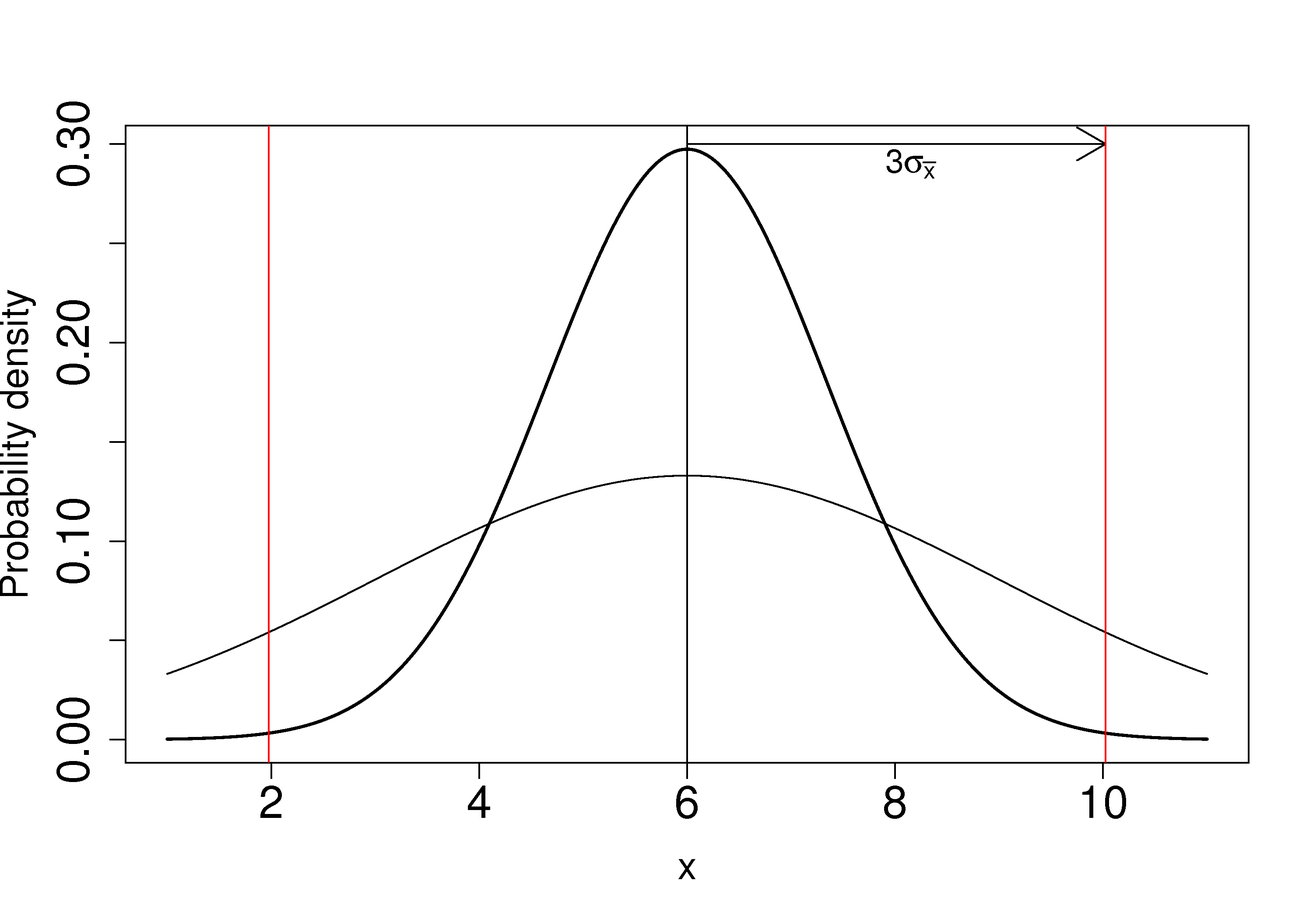
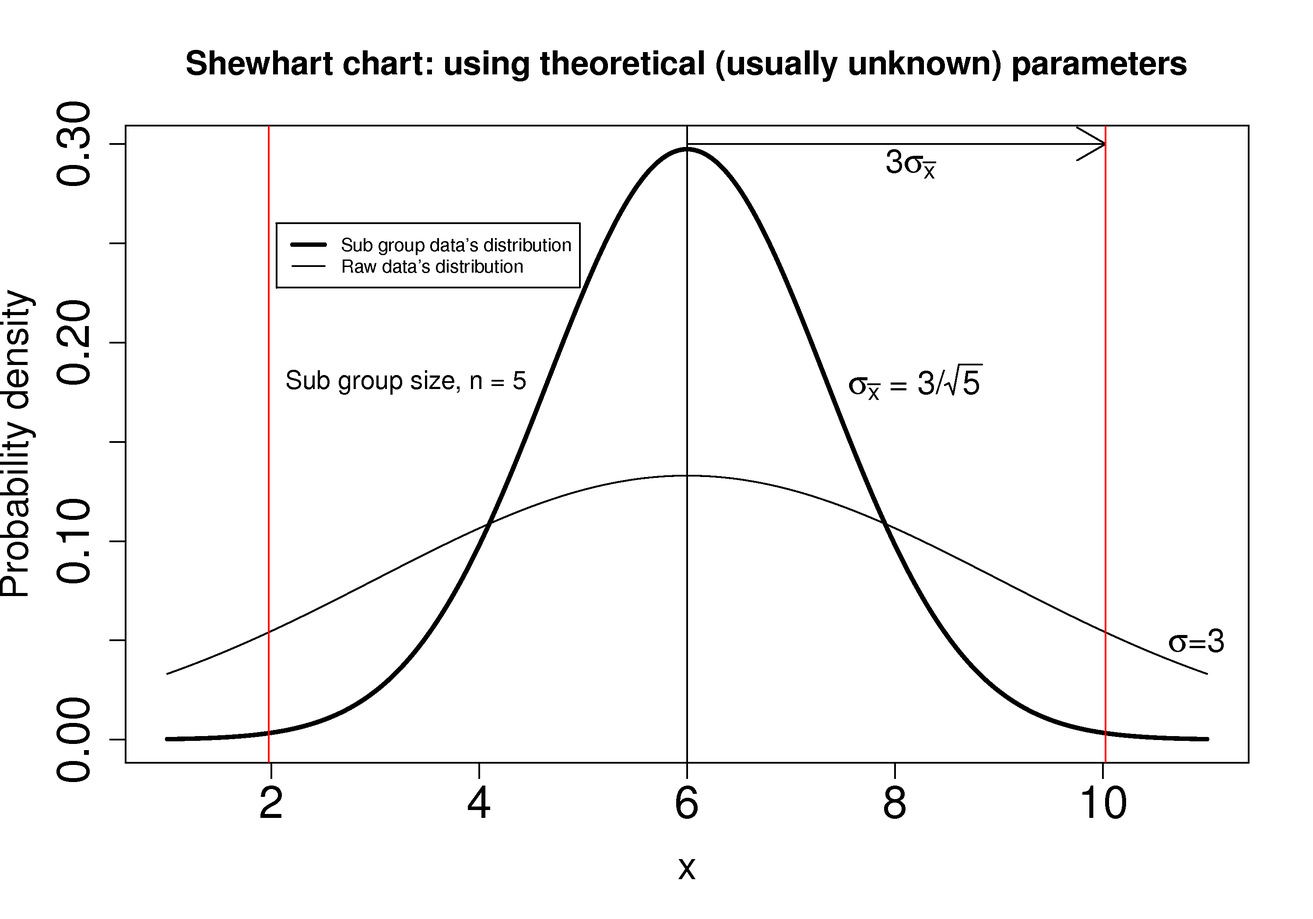
Fixed up some math: moved \bar to \overline; moved \tfrac and \dfrac to just \frac

diff --git a/conf.py b/conf.py
@@ -172,7 +172,7 @@ rst_epilog = """
 .. |K| replace:: :math:`K`
 .. |M| replace:: :math:`M`
 .. |Cpk| replace:: C\ :sub:`pk`
-.. |xdb| replace:: :math:`\Bar{\Bar{x}}`
+.. |xdb| replace:: :math:`\overline{\overline{x}}`
 """
 
 # -- Options for HTML output ---------------------------------------------------

diff --git a/process-monitoring/process-monitoring.rst b/process-monitoring/process-monitoring.rst
@@ -174,48 +174,64 @@ A :index:`Shewhart chart <pair: Shewhart chart; Process monitoring>`, named afte
 
 The defining characteristics are: a target, upper and lower control limits (UCL and LCL).  These action limits are defined so that no action is required as long as the variable plotted remains within the limits.
 
-Derivation
-~~~~~~~~~~~~~
+Derivation using theoretical parameters
+~~~~~~~~~~~~~~~~~~~~~~~~~~~~~~~~~~~~~~~~~
 
-Define the variable of interest as :math:`x`, and assume that we have samples of :math:`x` available in sequence order.  No assumption is made regarding the distribution of :math:`x`.  The average of :math:`n` of these :math:`x`-values is defined as :math:`\bar{x}`, which from the Central limit theorem we know will be more normally distributed with unknown population mean :math:`\mu` and unknown population variance :math:`\sigma^2/n`, where :math:`\mu` and :math:`\sigma` refer to the distribution that samples of :math:`x` came from. The figure below shows the case for :math:`n=5`.
+Define the variable of interest as :math:`x`, and assume that we have samples of :math:`x` available in sequence order.  No assumption is made regarding the distribution of :math:`x`.  The average of :math:`n` of these :math:`x`-values is defined as :math:`\overline{x}`, which from the Central limit theorem we know will be more normally distributed with unknown population mean :math:`\mu` and unknown population variance :math:`\sigma^2/n`, where :math:`\mu` and :math:`\sigma` refer to the distribution that samples of :math:`x` came from. The figure below shows the case for :math:`n=5`.
 
 .. image:: images/explain-Shewhart-data-source.png
 	:width: 750px
 	:align: center
 	:scale: 70
 
-So by taking subgroups of size :math:`n` values, we now have a new variable, :math:`\bar{x}` and we will define a shorthand symbol for its standard deviation: :math:`\sigma_{\bar{X}} = \sigma/\sqrt{n}`.  Writing a |z|-value for :math:`\bar{x}`, and its associated confidence interval for :math:`\mu` is now easy after studying :ref:`the previous section <univariate-confidence-intervals>` of the book:
+So by taking subgroups of size :math:`n` values, we now have a new variable, :math:`\overline{x}` and we will define a shorthand symbol for its standard deviation: :math:`\sigma_{\overline{X}} = \sigma/\sqrt{n}`.  Writing a :math:`z`-value for :math:`\overline{x}`, and its associated confidence interval for :math:`\mu` is now easy after studying :ref:`the section on confidence intervals<univariate-confidence-intervals>`:
 
 .. math::
-	z = \dfrac{\bar{x} - \mu}{\sigma_{\bar{X}}}
 
-Assuming we know :math:`\sigma_{\bar{X}}`, which we usually do not in practice, we can invoke the normal distribution and calculate the probability of finding a value of |z| between :math:`c_n = -3` to :math:`c_n = +3`:
+	z = \frac{\displaystyle \overline{x} - \mu}{\displaystyle \sigma_{\overline{X}}}
+
+Assuming we know :math:`\sigma_{\overline{X}}`, which we usually do not in practice, we can invoke the normal distribution and calculate the probability of finding a value of :math:`z` between :math:`c_n = -3` to :math:`c_n = +3`:
 
 .. math::
 	:label: shewhart-theoretical
 	
 	\begin{array}{rcccl} 
-		  - c_n                                              &\leq& \dfrac{\bar{x} - \mu}{\sigma_{\bar{X}}} &  +c_n\\ \\
-		\bar{x}  - c_n\sigma_{\bar{X}}                       &\leq&  \mu                                                 &\leq& \bar{x}  + c_n\sigma_{\bar{X}} \\ \\
+		  - c_n                                              &\leq& \dfrac{\overline{x} - \mu}{\sigma_{\overline{X}}} &  +c_n\\ \\
+		\overline{x}  - c_n\sigma_{\overline{X}}                       &\leq&  \mu                                                 &\leq& \overline{x}  + c_n\sigma_{\overline{X}} \\ \\
 		\text{LCL}                                           &\leq&  \mu                                                 &\leq& \text{UCL}
 	\end{array}
 
-The total area between that lower and upper bound spans 99.73% of the area (in R: ``pnorm(+3) - pnorm(-3)`` gives 0.9973).  So it is highly unlikely, a chance of 1 in 370 that a data point, :math:`\bar{x}`, calculated from a subgroup of :math:`n` raw :math:`x`-values, will lie outside these bounds.
+The reason for :math:`c_n = \pm 3` is that the total area between that lower and upper bound spans 99.73% of the area (in R: ``pnorm(+3) - pnorm(-3)`` gives 0.9973).  So it is highly unlikely, a chance of 1 in 370 that a data point, :math:`\overline{x}`, calculated from a subgroup of :math:`n` raw :math:`x`-values, will lie outside these bounds.
 
-.. Explain-shewhart.png
+The following illustration should help connect the concept of the raw data's distribution, to the distribution of the subgroups:
+
+.. figure:: images/explain-shewhart.png
+	:alt:	images/explain-shewhart.R
+	:scale: 70
+	:width: 750px
+	:align: center
 
 Using estimated parameters instead
 ~~~~~~~~~~~~~~~~~~~~~~~~~~~~~~~~~~~~~~~~
 
-The derivation in equation :eq:`shewhart-theoretical` requires knowing the population variance, :math:`\sigma`, and assuming that our target for :math:`x` is :math:`\mu`.  
+The derivation in equation :eq:`shewhart-theoretical` requires knowing the population variance, :math:`\sigma`, and assuming that our target for :math:`x` is :math:`\mu`.  The latter assumption is reasonable, but we will estimate a value for :math:`\sigma` instead, using the data.
 
-The latter assumption is reasonable, so create a new variable |xdb| :math:`= \dfrac{1}{K} \displaystyle \sum_{k=1}^{K}{ \bar{x}_k}`, where :math:`K` is the number of :math:`\bar{x}` samples we have available to build the control chart (phase 1 data).  Alternatively, just set |xdb| to the desired target value for :math:`x`.  Note that |xdb| is sometimes called the  *grand mean* in control chart textbooks.
+.. index:: ! Phase 1 (control charts)
 
-The next hurdle is :math:`\sigma`.  We do not show it here, but for a subgroup of :math:`n` samples, an unbiased estimator of :math:`\sigma` is given by :math:`\dfrac{\bar{S}}{a_n}`.  Now :math:`\bar{S} =  \dfrac{1}{K} \displaystyle \sum_{k=1}^{K}{s_k}` (simply the average standard deviation calculated from :math:`K` subgroups).  Values for :math:`a_n` are looked up from a table and depend on the number of samples we use within each subgroup.
+Let's take a look at phase, the step where we are building the control chart's limits from historical data.  Create a new variable |xdb| :math:`= \dfrac{1}{K} \displaystyle \sum_{k=1}^{K}{ \overline{x}_k}`, where :math:`K` is the number of :math:`\overline{x}` samples we have available to build the control chart, called the :index:`phase 1` data.  Alternatively, just set |xdb| to the desired target value for :math:`x`.  Note that |xdb| is sometimes called the  *grand mean* in control chart textbooks.
 
-.. figure:: images/table-for-an-values.png
-	:width: 500px
-	:scale: 80
+The next hurdle is :math:`\sigma`.  We do not show it here, but for a subgroup of :math:`n` samples, an unbiased estimator of :math:`\sigma` is given by :math:`\frac{\overline{S}}{a_n}`.  Now :math:`\overline{S} =  \frac{1}{K} \displaystyle \sum_{k=1}^{K}{s_k}` (simply the average standard deviation calculated from :math:`K` subgroups).  Values for :math:`a_n` are found from a table and depend on the number of samples we use within each subgroup.
+
+===========  ====== ====== ====== ====== ====== ====== ====== =============== 
+:math:`n`    2      3      4      5      6      7      8      :math:`\infty`
+-----------  ------ ------ ------ ------ ------ ------ ------ --------------- 
+:math:`a_n`  0.793  0.886  0.921  0.940  0.952  0.959  0.965  1.0
+===========  ====== ====== ====== ====== ====== ====== ====== =============== 
+
+..
+	.. figure:: images/table-for-an-values.png
+		:width: 500px
+		:scale: 80
 	
 .. table code
 	{| class="wikitable center"
@@ -245,74 +261,75 @@ Now that we have an unbiased estimator for the standard deviation from these :ma
 	:label: shewhart-limits
 	
 	\begin{array}{rcccl} 
-		 \text{LCL} = \Bar{\Bar{x}} - 3 \cdot \dfrac{\bar{S}}{a_n\sqrt{n}} &&  &&  \text{UCL} = \Bar{\Bar{x}} + 3 \cdot \dfrac{\bar{S}}{a_n\sqrt{n}} 
+		 \text{LCL} = \overline{\overline{x}} - 3 \cdot \frac{\overline{S}}{a_n\sqrt{n}} &&  &&  \text{UCL} = \overline{\overline{x}} + 3 \cdot \frac{\overline{S}}{a_n\sqrt{n}} 
 	\end{array}
 
-Example
-~~~~~~~~~~~~~~~~~~~~~~~~~~
+.. rubric:: Example
 
-Bales of rubber are being produced, with every 10th bale automatically removed from the line.  Five measurements of colour are made on the bale, using calibrated digital cameras under standard lighting conditions. The rubber compound is used for medical devices, so it needs to have the correct whiteness (colour).  The average of the 5 colour measurements is to be plotted on a Shewhart chart.  So we have a new data point appearing on the monitoring chart after every 10th bale.  
+Bales of rubber are being produced, with every 10th bale automatically removed from the line for testing.  Five measurements of colour are made on that bale, using calibrated digital cameras under standard lighting conditions. The rubber compound is used for medical devices, so it needs to have the correct whiteness (colour).  The average of the 5 colour measurements is to be plotted on a Shewhart chart.  So we have a new data point appearing on the monitoring chart after every 10th bale.  
 
-In the above example the raw data are the bale's colour.  There are :math:`n = 5` values in each subgroup.  Collect say :math:`K=20` samples of normal operating data, these are bales that are considered to be from stable operation. No special process events occurred while collecting the data.
+In the above example the raw data are the bale's colour.  There are :math:`n = 5` values in each subgroup.  Collect say :math:`K=20` samples of normal operating data, these are bales that are considered to be from stable operation. No special process events occurred while collecting these data.
 
 The data below represent the average of the :math:`n=5` samples from each bale, there are :math:`K=20` subgroups.
 
 .. math::
- 	\bar{x} = [245, 239, 239, 241, 241, 241, 238, 238, 236, 248, 233, 236, 246, 253, 227, 231, 237, 228, 239, 240]
+ 	\overline{x} = [245, 239, 239, 241, 241, 241, 238, 238, 236, 248, 233, 236, 246, 253, 227, 231, 237, 228, 239, 240]
 
-The overall average is :math:`\Bar{\Bar{x}} = 238.8` and :math:`\bar{S} = 9.28`.  Calculate the lower and upper control limits for this Shewhart chart.  Were there any points in the phase I data (training phase) that exceeded these limits?
+The overall average is :math:`\overline{\overline{x}} = 238.8` and :math:`\overline{S} = 9.28`.  Calculate the lower and upper control limits for this Shewhart chart.  Were there any points in the phase I data (training phase) that exceeded these limits?
 
-	- LCL = :math:`238.8 - 3 \cdot \dfrac{9.28}{(0.94)(\sqrt{5})} = 225.6`
-	- UCL = :math:`238.8 + 3 \cdot \dfrac{9.28}{(0.94)(\sqrt{5})} = 252.0`
-	- The sample with value of 253 exceeds these limits.  If this point is excluded and the limits recomputed, the new LCL = 224 and UCL = 252 (the new :math:`\Bar{\Bar{x}} = 238.0` and :math:`\bar{S} = 9.68`)
+	-	LCL = :math:`238.8 - 3 \cdot \frac{9.28}{(0.94)(\sqrt{5})} = 225.6`
+	-	UCL = :math:`238.8 + 3 \cdot \frac{9.28}{(0.94)(\sqrt{5})} = 252.0`
+	-	The sample with value of 253 exceeds these limits.  
+	-	This point should be excluded and the limits recomputed: the new :math:`\overline{\overline{x}} = 238.0` and :math:`\overline{S} = 9.68` and the new LCL = 224 and UCL = 252
 	
 .. todo: show chart in class
-	
-	
-.. todo:  use explain-shewhart.R still
-
+		
 .. todo: in the future, describe more clearly the difference between phase I and phase II.  Students were asking a lot of questions around this.
 
 Assessing the chart's performance
 ~~~~~~~~~~~~~~~~~~~~~~~~~~~~~~~~~~~~~~~~~~~~~~~~~~~~
 
-There are 2 ways to assess performance:
+There are 2 ways to :index:`assess performance of any control chart <single: control chart assessment>`, in particular here we discuss the Shewhart chart:
 
-#.	Error probability.  We define two types of errors, Type I and Type II, which are a function of the lower and upper control limits (LCL and UCL).
+.. rubric:: 1. Error probability.  
 
-	You make a **type I error** when your sample is typical of normal operation, yet, it falls outside the UCL or LCL limits.  We showed in the theoretical derivation that the area covered by the upper and lower control limits is 99.73%.  The probability of making a type I error, usually denoted as :math:`\alpha` is then 100 - 99.73 = 0.27%.
-	
-	*Synonyms* for a **type I error**: false alarm, false positive (used mainly for testing of diseases), producer's risk (used for acceptance sampling)
-	
-	You make a **type II error** when your sample really is abnormal, but falls within the the UCL and LCL limits.  This error rate is denoted by :math:`\beta`, and it is a function of the degree of abnormality, which we derive next.
-	
-	*Synonyms* for a **type II error**: false negative (used mainly for testing of diseases), consumer's risk (used for acceptance sampling)
-	
-	To quantify the probability of :math:`\beta`, make an assumption that the new, abnormal sample comes from a distribution which has shifted its location from :math:`\mu` to :math:`\mu + \Delta\sigma` (e.g. :math:`\Delta` can be positive or negative).  Now, what is the probability this new sample, which come from the shifted distribution, will fall within the existing LCL and UCL? This figure show the probability is :math:`\beta = 1 - \text{the shaded area}`.
+We define two types of errors, Type I and Type II, which are a function of the lower and upper control limits (LCL and UCL).
 
-	.. figure:: images/show-shift-beta-error.png
-		:width: 500px
-		:align: center
-		:scale: 90
-	
-	.. todo  How did Devore calculate these numbers: see p 667 of his book - it doesn't make sense to me.  See my attempt in "show-shift-typeII-error.R"
-	
-	.. figure:: images/type-II-error-shift.png
-		:width: 500px
-		:align: center
-		:scale: 90
+You make a **type I error** when your sample is typical of normal operation, yet, it falls outside the UCL or LCL limits.  We showed in the theoretical derivation that the area covered by the upper and lower control limits is 99.73%.  The probability of making a type I error, usually denoted as :math:`\alpha` is then 100 - 99.73 = 0.27%.
 
-	The table here shows that :math:`\beta` is a function of the amount by which the process shifts = :math:`\Delta`, where :math:`\Delta=1` implies the process has shifted up by :math:`1\sigma`.  The table was calculated for :math:`n=4` and used critical limits of :math:`\pm 3 \sigma_{\bar{X}}`.
+*Synonyms* for a **type I error**: false alarm, false positive (used mainly for testing of diseases), producer's risk (used for acceptance sampling)
 
-	The key point you should note from the table is that a Shewhart chart is not good at detecting a change in the level of a variable.  Even a moderate shift of :math:`0.75\sigma` units :math:`(\Delta=0.75)` will only be detected around 6.7% of the time (100-93.3%) when :math:`n=4`.  We will discuss CUSUM charts as a way to overcome this issue next.
-	
-	It is straightforward to see how the type I (:math:`\alpha`) error rate can be adjusted - simply move the LCL and UCL up and down, as required.  
-	
-	However what happens to the type II error rate as the LCL and UCL bounds are shifted?  Imagine the case where you want to have :math:`\alpha \rightarrow 0`.  As you make the UCL higher and higher, the value for :math:`\alpha` drops, but the value for :math:`\beta` will also increase!  **You cannot simultaneously have low type I and type II error**.
+You make a **type II error** when your sample really is abnormal, but falls within the the UCL and LCL limits.  This error rate is denoted by :math:`\beta`, and it is a function of the degree of abnormality, which we derive next.
 
-#. 	The **average run length (ARL)** is defined as the average number of sequential samples we expect before seeing an out-of-bounds, or out-of-control signal.  This is given by the inverse of :math:`\alpha`, as ARL = :math:`\frac{1}{\alpha}`.  Recall for the theoretical distribution we had :math:`\alpha = 0.0027`, so the ARL = 370.  Thus we expect a run of 370 samples before we get an out-of-control signal.
+*Synonyms* for a **type II error**: false negative (used mainly for testing of diseases), consumer's risk (used for acceptance sampling)
 
-	The run length is changed when the process level shifts.  What is the ARL if the process has shifted up by :math:`0.75\sigma`?
+To quantify the probability :math:`\beta`, make an assumption that the new, abnormal sample comes from a distribution which has shifted its location from :math:`\mu` to :math:`\mu + \Delta\sigma` (e.g. :math:`\Delta` can be positive or negative).  Now, what is the probability this new sample, which come from the shifted distribution, will fall within the existing LCL and UCL? This figure show the probability is :math:`\beta = 1 - \text{the shaded area}`.
+
+.. figure:: images/show-shift-beta-error.png
+	:width: 500px
+	:align: center
+	:scale: 90
+
+.. todo  How did Devore calculate these numbers: see p 667 of his book - it doesn't make sense to me.  See my attempt in "show-shift-typeII-error.R"
+
+.. figure:: images/type-II-error-shift.png
+	:width: 500px
+	:align: center
+	:scale: 90
+
+The table here shows that :math:`\beta` is a function of the amount by which the process shifts = :math:`\Delta`, where :math:`\Delta=1` implies the process has shifted up by :math:`1\sigma`.  The table was calculated for :math:`n=4` and used critical limits of :math:`\pm 3 \sigma_{\overline{X}}`.
+
+The key point you should note from the table is that a Shewhart chart is not good at detecting a change in the level of a variable.  Even a moderate shift of :math:`0.75\sigma` units :math:`(\Delta=0.75)` will only be detected around 6.7% of the time (100-93.3%) when :math:`n=4`.  We will discuss CUSUM charts as a way to overcome this issue next.
+
+It is straightforward to see how the type I (:math:`\alpha`) error rate can be adjusted - simply move the LCL and UCL up and down, as required.  
+
+However what happens to the type II error rate as the LCL and UCL bounds are shifted?  Imagine the case where you want to have :math:`\alpha \rightarrow 0`.  As you make the UCL higher and higher, the value for :math:`\alpha` drops, but the value for :math:`\beta` will also increase!  **You cannot simultaneously have low type I and type II error**.
+
+.. rubric:: 2. Using the average run length (ARL)
+
+The ARL is defined as the average number of sequential samples we expect before seeing an out-of-bounds, or out-of-control signal.  This is given by the inverse of :math:`\alpha`, as ARL = :math:`\frac{1}{\alpha}`.  Recall for the theoretical distribution we had :math:`\alpha = 0.0027`, so the ARL = 370.  Thus we expect a run of 370 samples before we get an out-of-control signal.
+
+The run length is changed when the process level shifts.  What is the ARL if the process has shifted up by :math:`0.75\sigma`?
 	
 	*Answer*
 	
@@ -411,7 +428,7 @@ The MA chart plots values of :math:`x_t`, calculated from groups of size :math:`
 
 .. math::	
 	
-	\bar{x}_t = \dfrac{1}{n}x_{t-1} + \dfrac{1}{n}x_{t-2} + \ldots + \dfrac{1}{n}x_{t-n}
+	\overline{x}_t = \frac{1}{n}x_{t-1} + \frac{1}{n}x_{t-2} + \ldots + \frac{1}{n}x_{t-n}
 
 The EWMA is similar to the MA, but with different weights; heavier weights for more recent observations, tailing off exponentially to very small weights further back.  Let's take a look at a derivation. 
 
@@ -464,7 +481,7 @@ The upper and lower control limits for the EWMA plot are plotted in the same way
 	:label: ewma-limits
 	
 	\begin{array}{rcccl} 
-		 \text{LCL} = \Bar{\Bar{x}} - 3 \cdot \sigma_{\text{Shewhart}}\sqrt{\dfrac{\lambda}{2-\lambda}} &&  &&  \text{UCL} = \Bar{\Bar{x}} + 3 \cdot \sigma_{\text{Shewhart}} \sqrt{\dfrac{\lambda}{2-\lambda}}
+		 \text{LCL} = \overline{\overline{x}} - 3 \cdot \sigma_{\text{Shewhart}}\sqrt{\frac{\lambda}{2-\lambda}} &&  &&  \text{UCL} = \overline{\overline{x}} + 3 \cdot \sigma_{\text{Shewhart}} \sqrt{\frac{\lambda}{2-\lambda}}
 	\end{array} 
 
 where :math:`\sigma_{\text{Shewhart}}` represents the standard deviation as used on the Shewhart chart.  Actually one neat implementation is to show both the Shewhart and EWMA plot on the same chart, with both sets of limits.  The EWMA value plotted is actually the one-step ahead prediction of the next :math:`x`-value, which can be informative for slow-moving processes.
@@ -495,7 +512,7 @@ Other charts
 
 You may encounter other charts in practice:
 
-	*	The *S chart* is for monitoring the subgroup standard deviation.  Take the group of :math:`n` samples and show their standard deviation on a Shewhart-type chart.  The limits for the chart are calculated using similar correction factors as were used in the derivation for the standard :math:`\bar{x}` Shewhart chart.  This chart has a LCL :math:`\geq 0`.
+	*	The *S chart* is for monitoring the subgroup standard deviation.  Take the group of :math:`n` samples and show their standard deviation on a Shewhart-type chart.  The limits for the chart are calculated using similar correction factors as were used in the derivation for the standard :math:`\overline{x}` Shewhart chart.  This chart has a LCL :math:`\geq 0`.
 	
 	*	The *R chart* was a precursor for the *S chart*, where the *R* stands for range, the subgroup's maximum minus minimum.  It was used when charting was done manually, as standard deviations were tedious to calculate by hand.
 	
@@ -522,7 +539,7 @@ Purchasers of your product will require a process capability ratio (PCR) for eac
 .. math::
 	:label: process-capability-ratio-centered
 	
-	\text{PCR} &= \dfrac{\text{Upper specification limit} - \text{Lower specification limit}}{6\sigma}
+	\text{PCR} &= \frac{\text{Upper specification limit} - \text{Lower specification limit}}{6\sigma}
 	
 Since the population standard deviation, :math:`\sigma`, is not known, an estimate of it is used.  Note that the lower specification limit (LSL) and upper specification limit (USL) are **not the same** as the lower control limit (LCL) and upper control limit (UCL) as where calculated for the Shewhart chart.  The LSL and USL are the tolerance limits required by your customers, or from your internal specifications.  
 
@@ -568,7 +585,7 @@ Processes are not very often centered between their upper and lower specificatio
 .. math::
 	:label: process-capability-ratio-uncentered
 
-		\text{PCR}_\text{k} = \text{C}_\text{pk} = \min \left( \dfrac{\text{Upper specification limit} - \Bar{\Bar{x}}}{3\sigma};  \dfrac{\Bar{\Bar{x}} - \text{Lower specification limit}}{3\sigma} \right)
+		\text{PCR}_\text{k} = \text{C}_\text{pk} = \min \left( \frac{\text{Upper specification limit} - \overline{\overline{x}}}{3\sigma};  \frac{\overline{\overline{x}} - \text{Lower specification limit}}{3\sigma} \right)
 		
 The |xdb| term would be the process target from a Shewhart chart, or simply the actual operating point.  Notice that |Cpk| is a one-sided ratio, only the side closest to the specification is reported.  So even an excellent process with C\ :sub:`p` = 2.0 that is running off-center will have a lower |Cpk|.
 
@@ -874,21 +891,21 @@ Exercises
 	:fullinclude: no 
 	:short: Unbiased estimate of the process standard deviation = 106.4; UCL = 874; LCL = 554.
 	
-	#.	An unbiased estimate of the process standard deviation is :math:`\hat{\sigma} = \dfrac{\bar{S}}{a_n} = \dfrac{98}{0.921} = \mathrm{106.4}`, since the subgroup size is :math:`n=4`.
+	#.	An unbiased estimate of the process standard deviation is :math:`\hat{\sigma} = \frac{\overline{S}}{a_n} = \frac{98}{0.921} = \mathrm{106.4}`, since the subgroup size is :math:`n=4`.
 	#.	Using the data provided in the question:
 
 		.. math::
 
-			\text{UCL} &= \bar{\bar{x}} + 3 \dfrac{\bar{S}}{a_n \sqrt{n}} = 714 + 3 \times \dfrac{98}{0.921 \times 2 } = \mathrm{874} \\
-			\text{LCL} &= \bar{\bar{x}} - 3 \dfrac{\bar{S}}{a_n \sqrt{n}} = 714 - 3 \times \dfrac{98}{0.921 \times 2 } = \mathrm{554}
+			\text{UCL} &= \overline{\overline{x}} + 3 \frac{\overline{S}}{a_n \sqrt{n}} = 714 + 3 \times \frac{98}{0.921 \times 2 } = \mathrm{874} \\
+			\text{LCL} &= \overline{\overline{x}} - 3 \frac{\overline{S}}{a_n \sqrt{n}} = 714 - 3 \times \frac{98}{0.921 \times 2 } = \mathrm{554}
 
 	#.	Since Shewhart charts assume a normal distribution in their derivation, we can use the same principle to calculate a :math:`z`-value, and the fraction of the area under the distribution.  But you have to be careful here: which standard deviation do you use to calculate the :math:`z`-value?   You should use the subgroup's standard deviation, not the process standard deviation. The Shewhart chart shows the subgroup averages, so the values of 590 and 820 refer to the subgroup values.
 
-	If that explanation doesn't make sense, think of the central limit theorem: the mean of a group of samples, :math:`\bar{x} \sim \mathcal{N}\left(\mu, \sigma^2/n\right)`, where :math:`\sigma^2` is the process variance, and :math:`\sigma^2/n` is the subgroup variance of :math:`\bar{x}`.
+	If that explanation doesn't make sense, think of the central limit theorem: the mean of a group of samples, :math:`\overline{x} \sim \mathcal{N}\left(\mu, \sigma^2/n\right)`, where :math:`\sigma^2` is the process variance, and :math:`\sigma^2/n` is the subgroup variance of :math:`\overline{x}`.
 
 	.. math::
-		z_{\text{low}}  &= \dfrac{x_\text{low} - \bar{\bar{x}}}{\hat{\sigma}/\sqrt{n}} = \dfrac{590 - 714}{106.4/\sqrt{4}} = -2.33 \\
-		z_{\text{high}} &= \dfrac{x_\text{high} - \bar{\bar{x}}}{\hat{\sigma}/\sqrt{n}} =\dfrac{820 - 714}{106.4/\sqrt{4}} = +2.00
+		z_{\text{low}}  &= \frac{x_\text{low} - \overline{\overline{x}}}{\hat{\sigma}/\sqrt{n}} = \frac{590 - 714}{106.4/\sqrt{4}} = -2.33 \\
+		z_{\text{high}} &= \frac{x_\text{high} - \overline{\overline{x}}}{\hat{\sigma}/\sqrt{n}} =\frac{820 - 714}{106.4/\sqrt{4}} = +2.00
 
 	The area below -2.33 is ``pnorm(-2.33) = 0.009903076``, though I will accept any value around 1%, eyeballed from the printed tables.  The area below +2.00 is 97.73%, which was on the tables already.  So the total amount of normal operation within the warning limits is 97.73-1.00 = **96.7%**.
 
@@ -906,9 +923,9 @@ Exercises
 	:fullinclude: no 
 	:short: Current Cpk = 1.0
 
-	#.	Recall the Cpk is defined relative to the closest specification limit.  So in this case it must be due to the lower limit. Cpk = :math:`\dfrac{\bar{\bar{x}} - LSL}{3\sigma} = \dfrac{37.4 - 35.0}{3 \times 0.8} = \mathrm{1.0}` 
-	#.	To obtain Cpk = 1.3 we solve the above equation for :math:`\bar{\bar{x}} = 1.3 \times 3 \times 0.8 + 35.0 = \mathrm{38.12}` grams.
-	#.	Changing the lower specification limit is not an option to raise Cpk, because the bags are sold as containing 35.0 grams of snackfood. Changing the specification limit is in general an artificial way of changing Cpk.  The only practical way to improve Cpk is to decrease the process variance (e.g. using better equipment with tighter control).  The new :math:`\sigma = \dfrac{37.4 - 35.0}{3 \times 1.3} = \mathrm{0.615}` grams.
+	#.	Recall the Cpk is defined relative to the closest specification limit.  So in this case it must be due to the lower limit. Cpk = :math:`\frac{\overline{\overline{x}} - LSL}{3\sigma} = \frac{37.4 - 35.0}{3 \times 0.8} = \mathrm{1.0}` 
+	#.	To obtain Cpk = 1.3 we solve the above equation for :math:`\overline{\overline{x}} = 1.3 \times 3 \times 0.8 + 35.0 = \mathrm{38.12}` grams.
+	#.	Changing the lower specification limit is not an option to raise Cpk, because the bags are sold as containing 35.0 grams of snackfood. Changing the specification limit is in general an artificial way of changing Cpk.  The only practical way to improve Cpk is to decrease the process variance (e.g. using better equipment with tighter control).  The new :math:`\sigma = \frac{37.4 - 35.0}{3 \times 1.3} = \mathrm{0.615}` grams.
 	
 .. question::
 
@@ -923,8 +940,8 @@ Exercises
 	:fullinclude: no 
 	
 	#.	The notes show that Cp values require us to assume that (a) the process values follow a normal distribution, the process was centered when the data were collected, and (c) that the process was stable (use a monitoring chart to verify this last assumption).
-	#.	The range from the lower to the upper specification limit is 0.8 mm, which spans 6 standard deviations.  Given the Cp value of 1.7, the process standard deviation must have been :math:`\sigma = \dfrac{0.8}{1.7 \times 6} = \mathrm{0.0784}` mm.
-	#.	This time we have the process standard deviation, so there is no need to estimate it from historical phase I data (remember the assumption that Cp and Cpk value are calculated from stable process operation?).  The Shewhart control limits would be: :math:`\bar{\bar{x}} \pm 3 \times \dfrac{\sigma}{\sqrt{n}} = 2 \pm 3 \times 0.0784 / 2`.  The LCL = 1.88 mm and the UCL = 2.12 mm.
+	#.	The range from the lower to the upper specification limit is 0.8 mm, which spans 6 standard deviations.  Given the Cp value of 1.7, the process standard deviation must have been :math:`\sigma = \frac{0.8}{1.7 \times 6} = \mathrm{0.0784}` mm.
+	#.	This time we have the process standard deviation, so there is no need to estimate it from historical phase I data (remember the assumption that Cp and Cpk value are calculated from stable process operation?).  The Shewhart control limits would be: :math:`\overline{\overline{x}} \pm 3 \times \frac{\sigma}{\sqrt{n}} = 2 \pm 3 \times 0.0784 / 2`.  The LCL = 1.88 mm and the UCL = 2.12 mm.
 	#.	An illustration is shown here with the USL, LSL, LCL and UCL, and target values.  This question merely required you to show the LCL and UCL within the LSL and USL, on any normal distribution curve.  However, for illustration, I have added to the diagram the distribution for the Shewhart chart (thicker line) and distribution for the raw process data (thinner line).  
 
 	.. figure:: images/plastic-sheet-control-specification-limits.png
